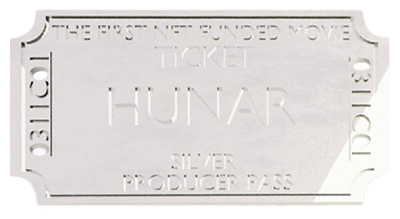
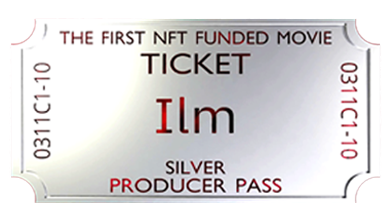
change some styles and images

diff --git a/src/app/component/mint.tsx b/src/app/component/mint.tsx
@@ -98,12 +98,6 @@ const MintCard = ({
                 <span>{nftType}</span>
               </h4>
               <div className="detail">
-                <p className="nft-price">
-                  Price:{" "}
-                  <span className="yellow-color">
-                    {price === 0 ? "__" : price} ETH
-                  </span>
-                </p>
                 <p className="h5">
                   {maxSupply === 0 ? (
                     "__ / __ "
@@ -112,6 +106,12 @@ const MintCard = ({
                       {currentSupply} / {maxSupply}
                     </>
                   )}
+                </p>
+                <p className="nft-price">
+                  Price:{" "}
+                  <span className="yellow-color">
+                    {price === 0 ? "__" : price} ETH
+                  </span>
                 </p>
                 <button
                   disabled={disabled || submitting}
@@ -170,7 +170,7 @@ export const Mint = () => {
                 disabled={disabled}
               />
               <MintCard
-                image="/assets/images/mint/ticket-1.png"
+                image="/assets/images/mint/ticket-4.png"
                 nftType="Bronze"
                 disabled={disabled}
               />

diff --git a/src/app/component/hero.tsx b/src/app/component/hero.tsx
@@ -70,7 +70,7 @@ export const Hero = () => {
                             <div className="nft-thumb text-center">
                               <img
                                 loading="lazy"
-                                src="assets/images/mint/ticket-1.png"
+                                src="assets/images/mint/ticket-4.png"
                                 alt="nft-img"
                                 className="img-responsive"
                               />
